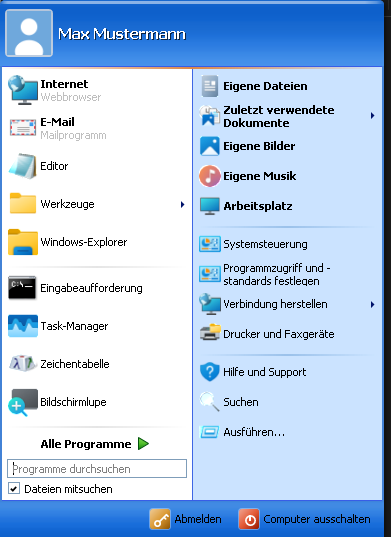
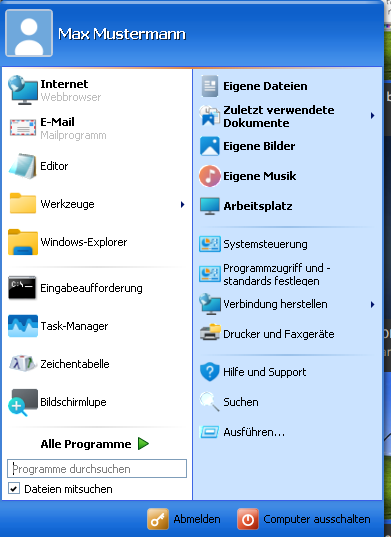
Die beiden Fusszeilen-Symbole neu gezeichnet und gerade gerueckt
Der Schluessel und der Ausschalter sassen einen Pixel nach unten rechts
versetzt: die Zeichenflaeche war 22 Einheiten gross, der Innenraum des
Rahmens aber nur 20, also schob der Rahmen den Glyph aus der Mitte und
schnitt ihn an.

Beide sind jetzt auf einem 32er-Raster als DrawingImage gezeichnet und
werden ueber ein Image eingesetzt. Damit sitzen sie in jeder Groesse
genau mittig und bleiben scharf, auch wenn das Menue vergroessert wird.
Dazu bekommen sie den Glanz auf der oberen Haelfte, den die Vorlagen
hatten. Beschrieben wird jedes Symbol nur noch an einer Stelle, statt in
der Fusszeile und im klassischen Menue getrennt.

Changed region(s): [[0.9821, 0.0, 1.0, 1.0], [0.3683, 0.9236, 0.5524, 1.0], [0.5831, 0.9236, 0.6752, 1.0]]

diff --git a/src/RetroMenu/Views/StartMenuWindow.xaml b/src/RetroMenu/Views/StartMenuWindow.xaml
@@ -179,19 +179,8 @@
             <Button Style="{StaticResource MenuEntryButton}"
                     Height="{DynamicResource ClassicItemHeight}" Padding="2,0">
                 <StackPanel Orientation="Horizontal">
-                    <Viewbox Width="32" Height="32" Margin="2,0,6,0">
-                        <Border Width="22" Height="22" CornerRadius="3"
-                                Background="{StaticResource LogOffIconBackground}"
-                                BorderBrush="{StaticResource IconEdgeBrush}" BorderThickness="1">
-                            <Canvas Width="22" Height="22">
-                                <Ellipse Canvas.Left="4" Canvas.Top="11" Width="7" Height="7"
-                                         Stroke="{StaticResource IconGlyphBrush}" StrokeThickness="1.7" />
-                                <Path Stroke="{StaticResource IconGlyphBrush}" StrokeThickness="1.7"
-                                      StrokeStartLineCap="Round" StrokeEndLineCap="Round"
-                                      Data="M 9.7,12.3 L 16.4,5.6 M 13.9,8.1 L 15.6,9.8 M 16.4,5.6 L 18.0,7.2" />
-                            </Canvas>
-                        </Border>
-                    </Viewbox>
+                    <Image Source="{StaticResource LogOffIconImage}" Width="32" Height="32"
+                           Margin="2,0,6,0" />
                     <TextBlock Text="{Binding Name}" VerticalAlignment="Center" />
                 </StackPanel>
             </Button>
@@ -201,18 +190,8 @@
             <Button Style="{StaticResource MenuEntryButton}"
                     Height="{DynamicResource ClassicItemHeight}" Padding="2,0">
                 <StackPanel Orientation="Horizontal">
-                    <Viewbox Width="32" Height="32" Margin="2,0,6,0">
-                        <Border Width="22" Height="22" CornerRadius="3"
-                                Background="{StaticResource PowerIconBackground}"
-                                BorderBrush="{StaticResource IconEdgeBrush}" BorderThickness="1">
-                            <Canvas Width="22" Height="22">
-                                <Ellipse Canvas.Left="5.5" Canvas.Top="5.5" Width="11" Height="11"
-                                         Stroke="{StaticResource IconGlyphBrush}" StrokeThickness="1.7" />
-                                <Rectangle Canvas.Left="10.1" Canvas.Top="5.8" Width="1.8" Height="6.4"
-                                           Fill="{StaticResource IconGlyphBrush}" />
-                            </Canvas>
-                        </Border>
-                    </Viewbox>
+                    <Image Source="{StaticResource PowerIconImage}" Width="32" Height="32"
+                           Margin="2,0,6,0" />
                     <TextBlock Text="{Binding Name}" VerticalAlignment="Center" />
                 </StackPanel>
             </Button>
@@ -426,17 +405,8 @@
                     <Button x:Name="LogOffButton" Style="{StaticResource FooterItemButton}"
                             Margin="0,0,10,0" Click="OnLogOffClick">
                         <StackPanel Orientation="Horizontal">
-                            <Border Width="22" Height="22" CornerRadius="3" Margin="0,0,2,0"
-                                    Background="{StaticResource LogOffIconBackground}"
-                                    BorderBrush="{StaticResource IconEdgeBrush}" BorderThickness="1">
-                                <Canvas Width="22" Height="22">
-                                    <Ellipse Canvas.Left="4" Canvas.Top="11" Width="7" Height="7"
-                                             Stroke="{StaticResource IconGlyphBrush}" StrokeThickness="1.7" />
-                                    <Path Stroke="{StaticResource IconGlyphBrush}" StrokeThickness="1.7"
-                                          StrokeStartLineCap="Round" StrokeEndLineCap="Round"
-                                          Data="M 9.7,12.3 L 16.4,5.6 M 13.9,8.1 L 15.6,9.8 M 16.4,5.6 L 18.0,7.2" />
-                                </Canvas>
-                            </Border>
+                            <Image Source="{StaticResource LogOffIconImage}" Width="22" Height="22"
+                                   Margin="0,0,3,0" />
                             <TextBlock x:Name="LogOffLabel" VerticalAlignment="Center" Margin="2,0,0,0" />
                         </StackPanel>
                     </Button>
@@ -444,16 +414,8 @@
                     <Button x:Name="ShutDownButton" Style="{StaticResource FooterItemButton}"
                             Margin="0,0,10,0" Click="OnShutDownClick">
                         <StackPanel Orientation="Horizontal">
-                            <Border Width="22" Height="22" CornerRadius="3" Margin="0,0,2,0"
-                                    Background="{StaticResource PowerIconBackground}"
-                                    BorderBrush="{StaticResource IconEdgeBrush}" BorderThickness="1">
-                                <Canvas Width="22" Height="22">
-                                    <Ellipse Canvas.Left="5.5" Canvas.Top="5.5" Width="11" Height="11"
-                                             Stroke="{StaticResource IconGlyphBrush}" StrokeThickness="1.7" />
-                                    <Rectangle Canvas.Left="10.1" Canvas.Top="5.8" Width="1.8" Height="6.4"
-                                               Fill="{StaticResource IconGlyphBrush}" />
-                                </Canvas>
-                            </Border>
+                            <Image Source="{StaticResource PowerIconImage}" Width="22" Height="22"
+                                   Margin="0,0,3,0" />
                             <TextBlock x:Name="ShutDownLabel" VerticalAlignment="Center" Margin="2,0,0,0" />
                         </StackPanel>
                     </Button>

diff --git a/src/RetroMenu/Themes/Shared.xaml b/src/RetroMenu/Themes/Shared.xaml
@@ -34,6 +34,90 @@
     <SolidColorBrush x:Key="IconEdgeBrush" Color="#59FFFFFF" />
 
     <!--
+        Both footer icons are drawn on a 32 unit square and shown through an Image,
+        so they sit exactly centred at any size and stay sharp when the menu is
+        scaled up. The earlier version put a 22 unit canvas inside a 20 unit box,
+        which pushed the glyph a pixel down and to the right.
+    -->
+    <LinearGradientBrush x:Key="IconGlossBrush" StartPoint="0,0" EndPoint="0,1">
+        <GradientStop Color="#70FFFFFF" Offset="0" />
+        <GradientStop Color="#20FFFFFF" Offset="0.75" />
+        <GradientStop Color="#00FFFFFF" Offset="1" />
+    </LinearGradientBrush>
+
+    <DrawingImage x:Key="LogOffIconImage">
+        <DrawingImage.Drawing>
+            <DrawingGroup>
+                <GeometryDrawing Brush="{StaticResource LogOffIconBackground}">
+                    <GeometryDrawing.Pen>
+                        <Pen Brush="{StaticResource IconEdgeBrush}" Thickness="1" />
+                    </GeometryDrawing.Pen>
+                    <GeometryDrawing.Geometry>
+                        <RectangleGeometry Rect="0.5,0.5,31,31" RadiusX="4.5" RadiusY="4.5" />
+                    </GeometryDrawing.Geometry>
+                </GeometryDrawing>
+
+                <GeometryDrawing Brush="{StaticResource IconGlossBrush}">
+                    <GeometryDrawing.Geometry>
+                        <RectangleGeometry Rect="2,2,28,13" RadiusX="3.5" RadiusY="3.5" />
+                    </GeometryDrawing.Geometry>
+                </GeometryDrawing>
+
+                <!-- a key: bow at the lower left, shaft up to the right, two teeth -->
+                <GeometryDrawing>
+                    <GeometryDrawing.Pen>
+                        <Pen Brush="{StaticResource IconGlyphBrush}" Thickness="2.6"
+                             StartLineCap="Round" EndLineCap="Round" LineJoin="Round" />
+                    </GeometryDrawing.Pen>
+                    <GeometryDrawing.Geometry>
+                        <GeometryGroup>
+                            <EllipseGeometry Center="11,21" RadiusX="4.2" RadiusY="4.2" />
+                            <LineGeometry StartPoint="14,18" EndPoint="23.5,8.5" />
+                            <LineGeometry StartPoint="19.4,12.6" EndPoint="22,15.2" />
+                            <LineGeometry StartPoint="21.6,10.4" EndPoint="23.8,12.6" />
+                        </GeometryGroup>
+                    </GeometryDrawing.Geometry>
+                </GeometryDrawing>
+            </DrawingGroup>
+        </DrawingImage.Drawing>
+    </DrawingImage>
+
+    <DrawingImage x:Key="PowerIconImage">
+        <DrawingImage.Drawing>
+            <DrawingGroup>
+                <GeometryDrawing Brush="{StaticResource PowerIconBackground}">
+                    <GeometryDrawing.Pen>
+                        <Pen Brush="{StaticResource IconEdgeBrush}" Thickness="1" />
+                    </GeometryDrawing.Pen>
+                    <GeometryDrawing.Geometry>
+                        <RectangleGeometry Rect="0.5,0.5,31,31" RadiusX="4.5" RadiusY="4.5" />
+                    </GeometryDrawing.Geometry>
+                </GeometryDrawing>
+
+                <GeometryDrawing Brush="{StaticResource IconGlossBrush}">
+                    <GeometryDrawing.Geometry>
+                        <RectangleGeometry Rect="2,2,28,13" RadiusX="3.5" RadiusY="3.5" />
+                    </GeometryDrawing.Geometry>
+                </GeometryDrawing>
+
+                <!-- ring and bar, both centred on the same point -->
+                <GeometryDrawing>
+                    <GeometryDrawing.Pen>
+                        <Pen Brush="{StaticResource IconGlyphBrush}" Thickness="2.6"
+                             StartLineCap="Round" EndLineCap="Round" />
+                    </GeometryDrawing.Pen>
+                    <GeometryDrawing.Geometry>
+                        <GeometryGroup>
+                            <EllipseGeometry Center="16,17.5" RadiusX="7.4" RadiusY="7.4" />
+                            <LineGeometry StartPoint="16,10.6" EndPoint="16,17.6" />
+                        </GeometryGroup>
+                    </GeometryDrawing.Geometry>
+                </GeometryDrawing>
+            </DrawingGroup>
+        </DrawingImage.Drawing>
+    </DrawingImage>
+
+    <!--
         A row in the left or the right column. XP drew the hover state as a flat
         rectangle in one solid blue, with square corners.
     -->
